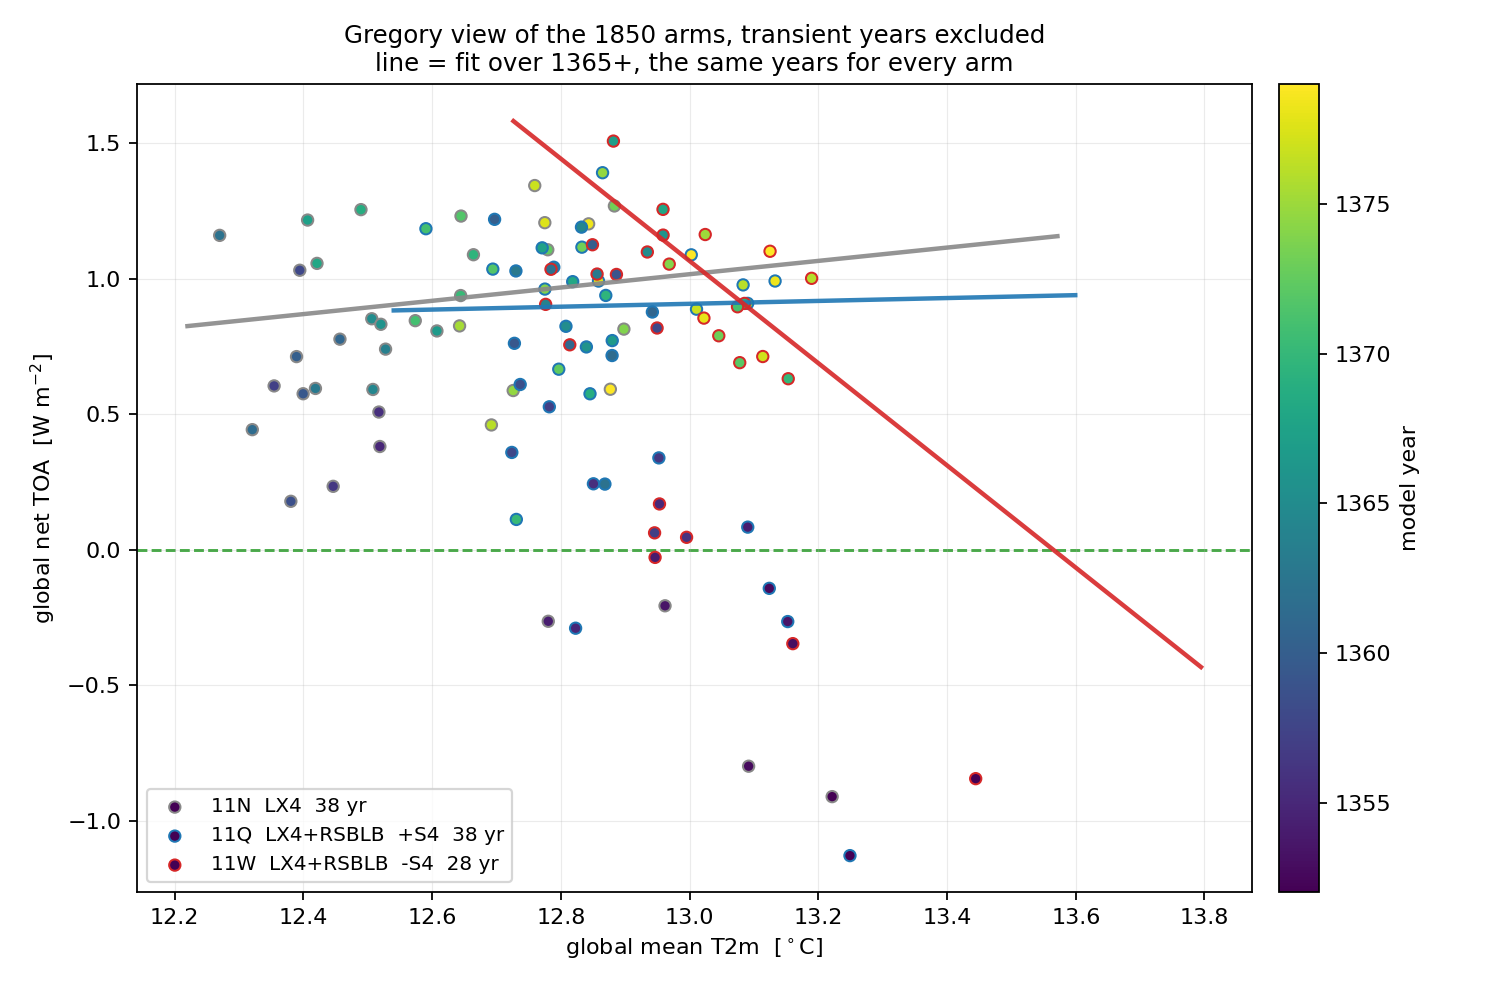
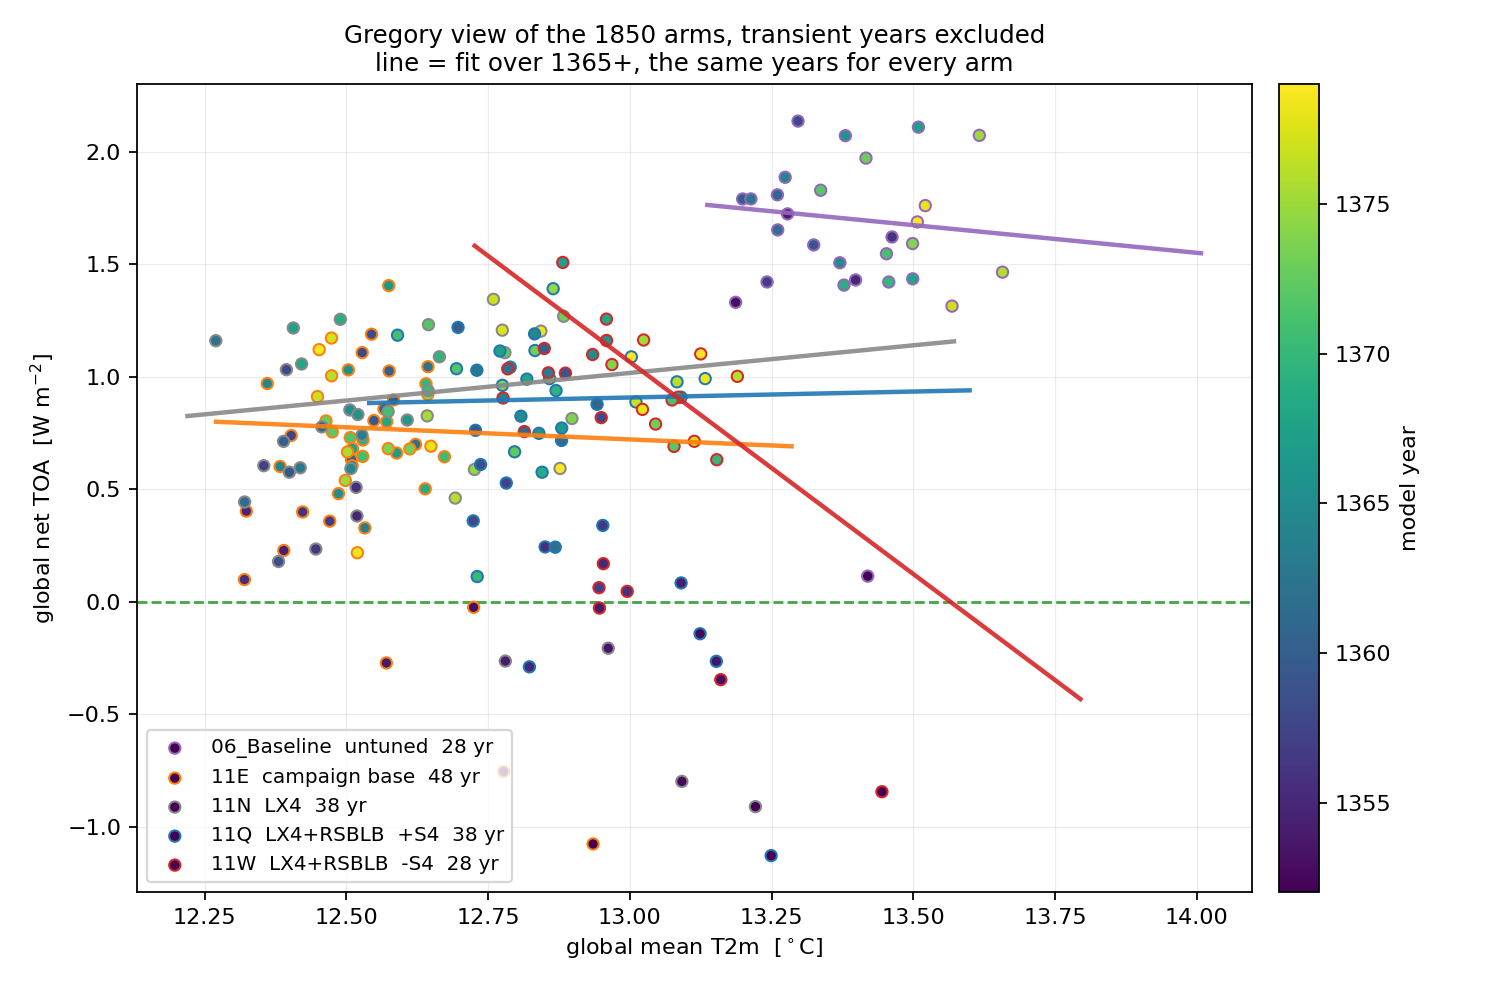
Add 06_Baseline and 11E to the Gregory view
Both are piControl from the same 1350 state. 11E is the longest 1850 arm on
disk at 50 years and is the only existing look past 1389, so it previews what
the 100-year window is likely to show.

Neither yields a crossing. 06_Baseline slopes -0.200 +- 0.584 over its whole
record and 11E -1.541 +- 0.558, but 11E's late window is -0.108 +- 0.554, so
at 50 years it has flattened exactly as 11N and 11Q do at 40.

diff --git a/scripts/analysis/gregory_1850_arms.py b/scripts/analysis/gregory_1850_arms.py
@@ -50,6 +50,7 @@ import matplotlib.pyplot as plt
 warnings.filterwarnings('ignore')
 
 R092 = '/work/bb1469/a270092/runtime/awiesm3-v3.4'
+R270 = '/work/bb1469/a270270/runtime/awiesm3-v3.4'
 OUT = ('/work/ab0246/a270092/postprocessing/'
        'investigation_awiesm3_high_lat_cold_bias_global_toa_positive/plots')
 ACC = 3600.0
@@ -59,7 +60,18 @@ def resolve(p):
     g = [x for x in glob.glob(f'{R092}/{p}') if os.path.isdir(x)]
     return g[0] if g else None
 
-ARMS = [('11N  LX4',            resolve('*11N*'), '#888888'),
+def res270(p):
+    import glob as _g
+    g = [x for x in _g.glob(f'{R270}/{p}') if os.path.isdir(x)]
+    return g[0] if g else None
+
+# 06_Baseline is the untuned v3.4 configuration and 11E the campaign's coupled base,
+# both piControl from the same 1350 state, so both answer "where would it have landed
+# before any of this".  11E is the longest 1850 arm on disk at 50 years, which is the
+# only existing look past 1389 and therefore the best preview of the 100-year window.
+ARMS = [('06_Baseline  untuned', res270('Tuning_test_06_Baseline'), '#9467bd'),
+        ('11E  campaign base',   resolve('Tuning_test_11E_swemin15_K1'), '#ff7f0e'),
+        ('11N  LX4',            resolve('*11N*'), '#888888'),
         ('11Q  LX4+RSBLB  +S4', resolve('11Q'),   '#1f77b4'),
         ('11W  LX4+RSBLB  -S4', resolve('11W'),   '#d62728')]
 
